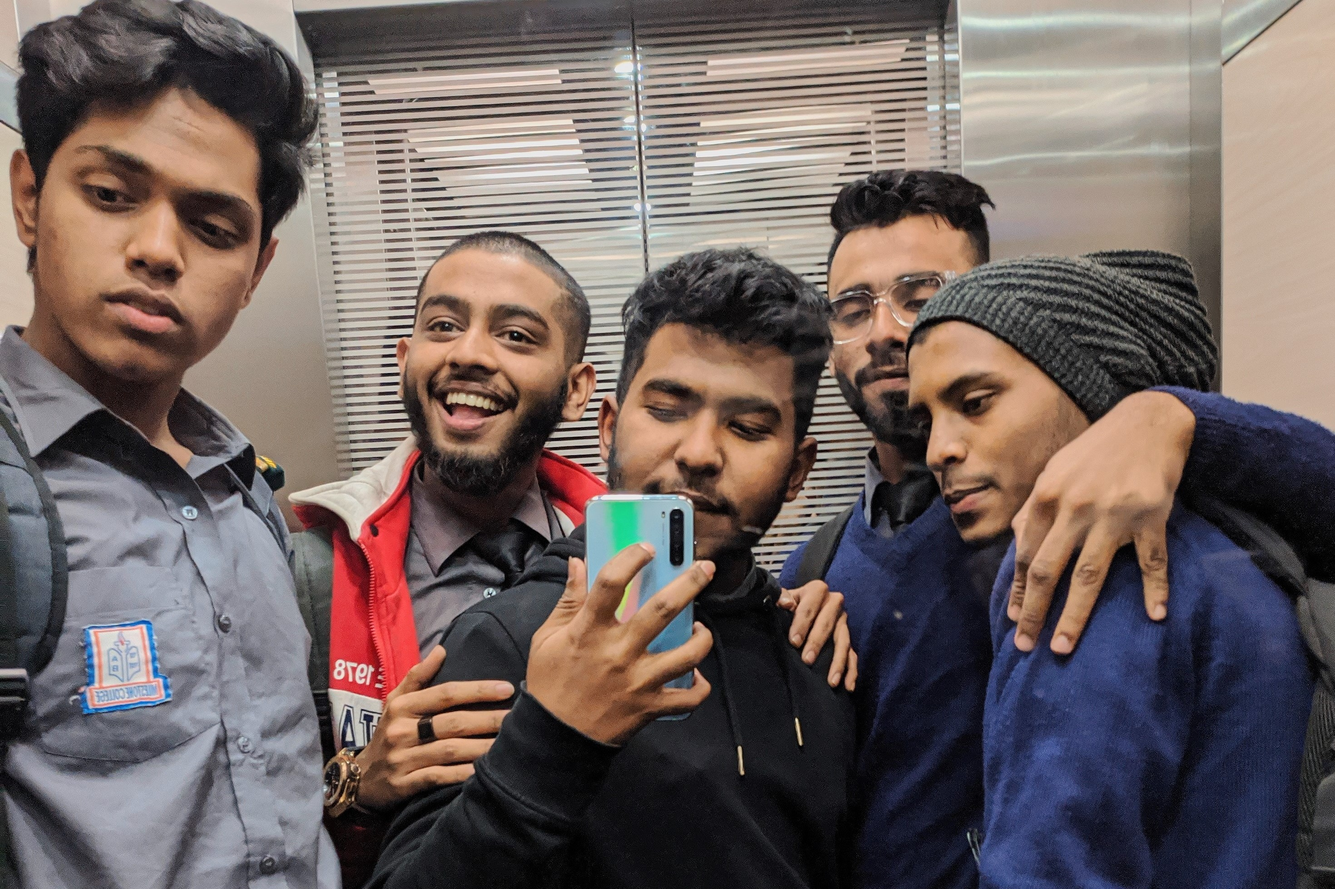
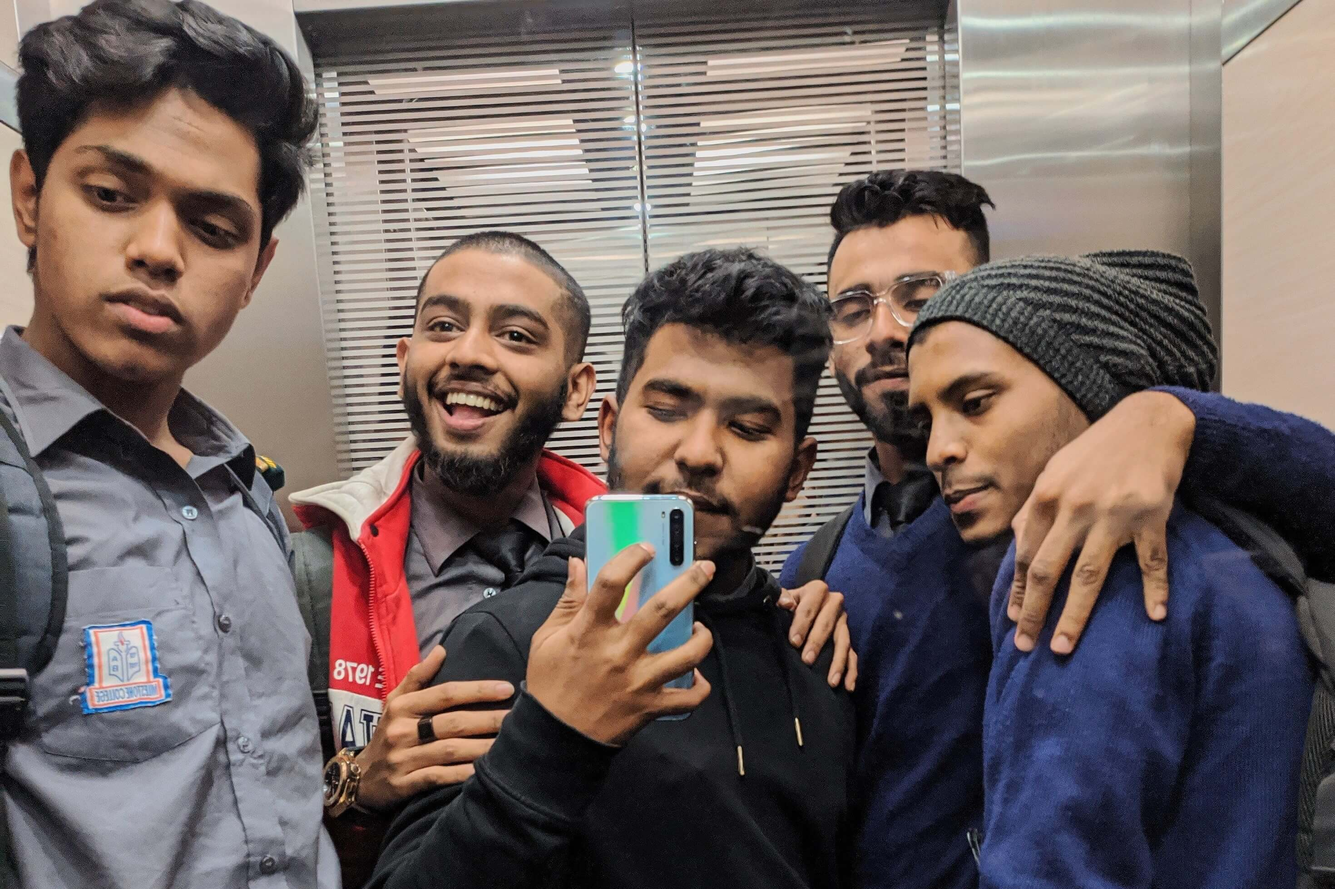
img-resolution change

Changed region(s): [[0.0619, 0.0623, 0.0929, 0.0934], [0.031, 0.0311, 0.0619, 0.0623]]

diff --git a/index.html b/index.html
@@ -220,7 +220,7 @@
       <div class="col img-col">
         <div class="row row-1">
           <img src="imgfnf/1.jpg" class="img-thumbnail rounded float-left img-fluid" alt="...">
-        <img src="imgfnf/2.png" class="img-thumbnail rounded float-center img-fluid" alt="...">
+        <img src="imgfnf/2.jpg" class="img-thumbnail rounded float-center img-fluid" alt="...">
         <img src="imgfnf/3.jpg" class="img-thumbnail rounded float-center img-fluid" alt="...">
         <img src="imgfnf/4-.jpg" class="img-thumbnail rounded float-right img-fluid" alt="...">
         </div>
